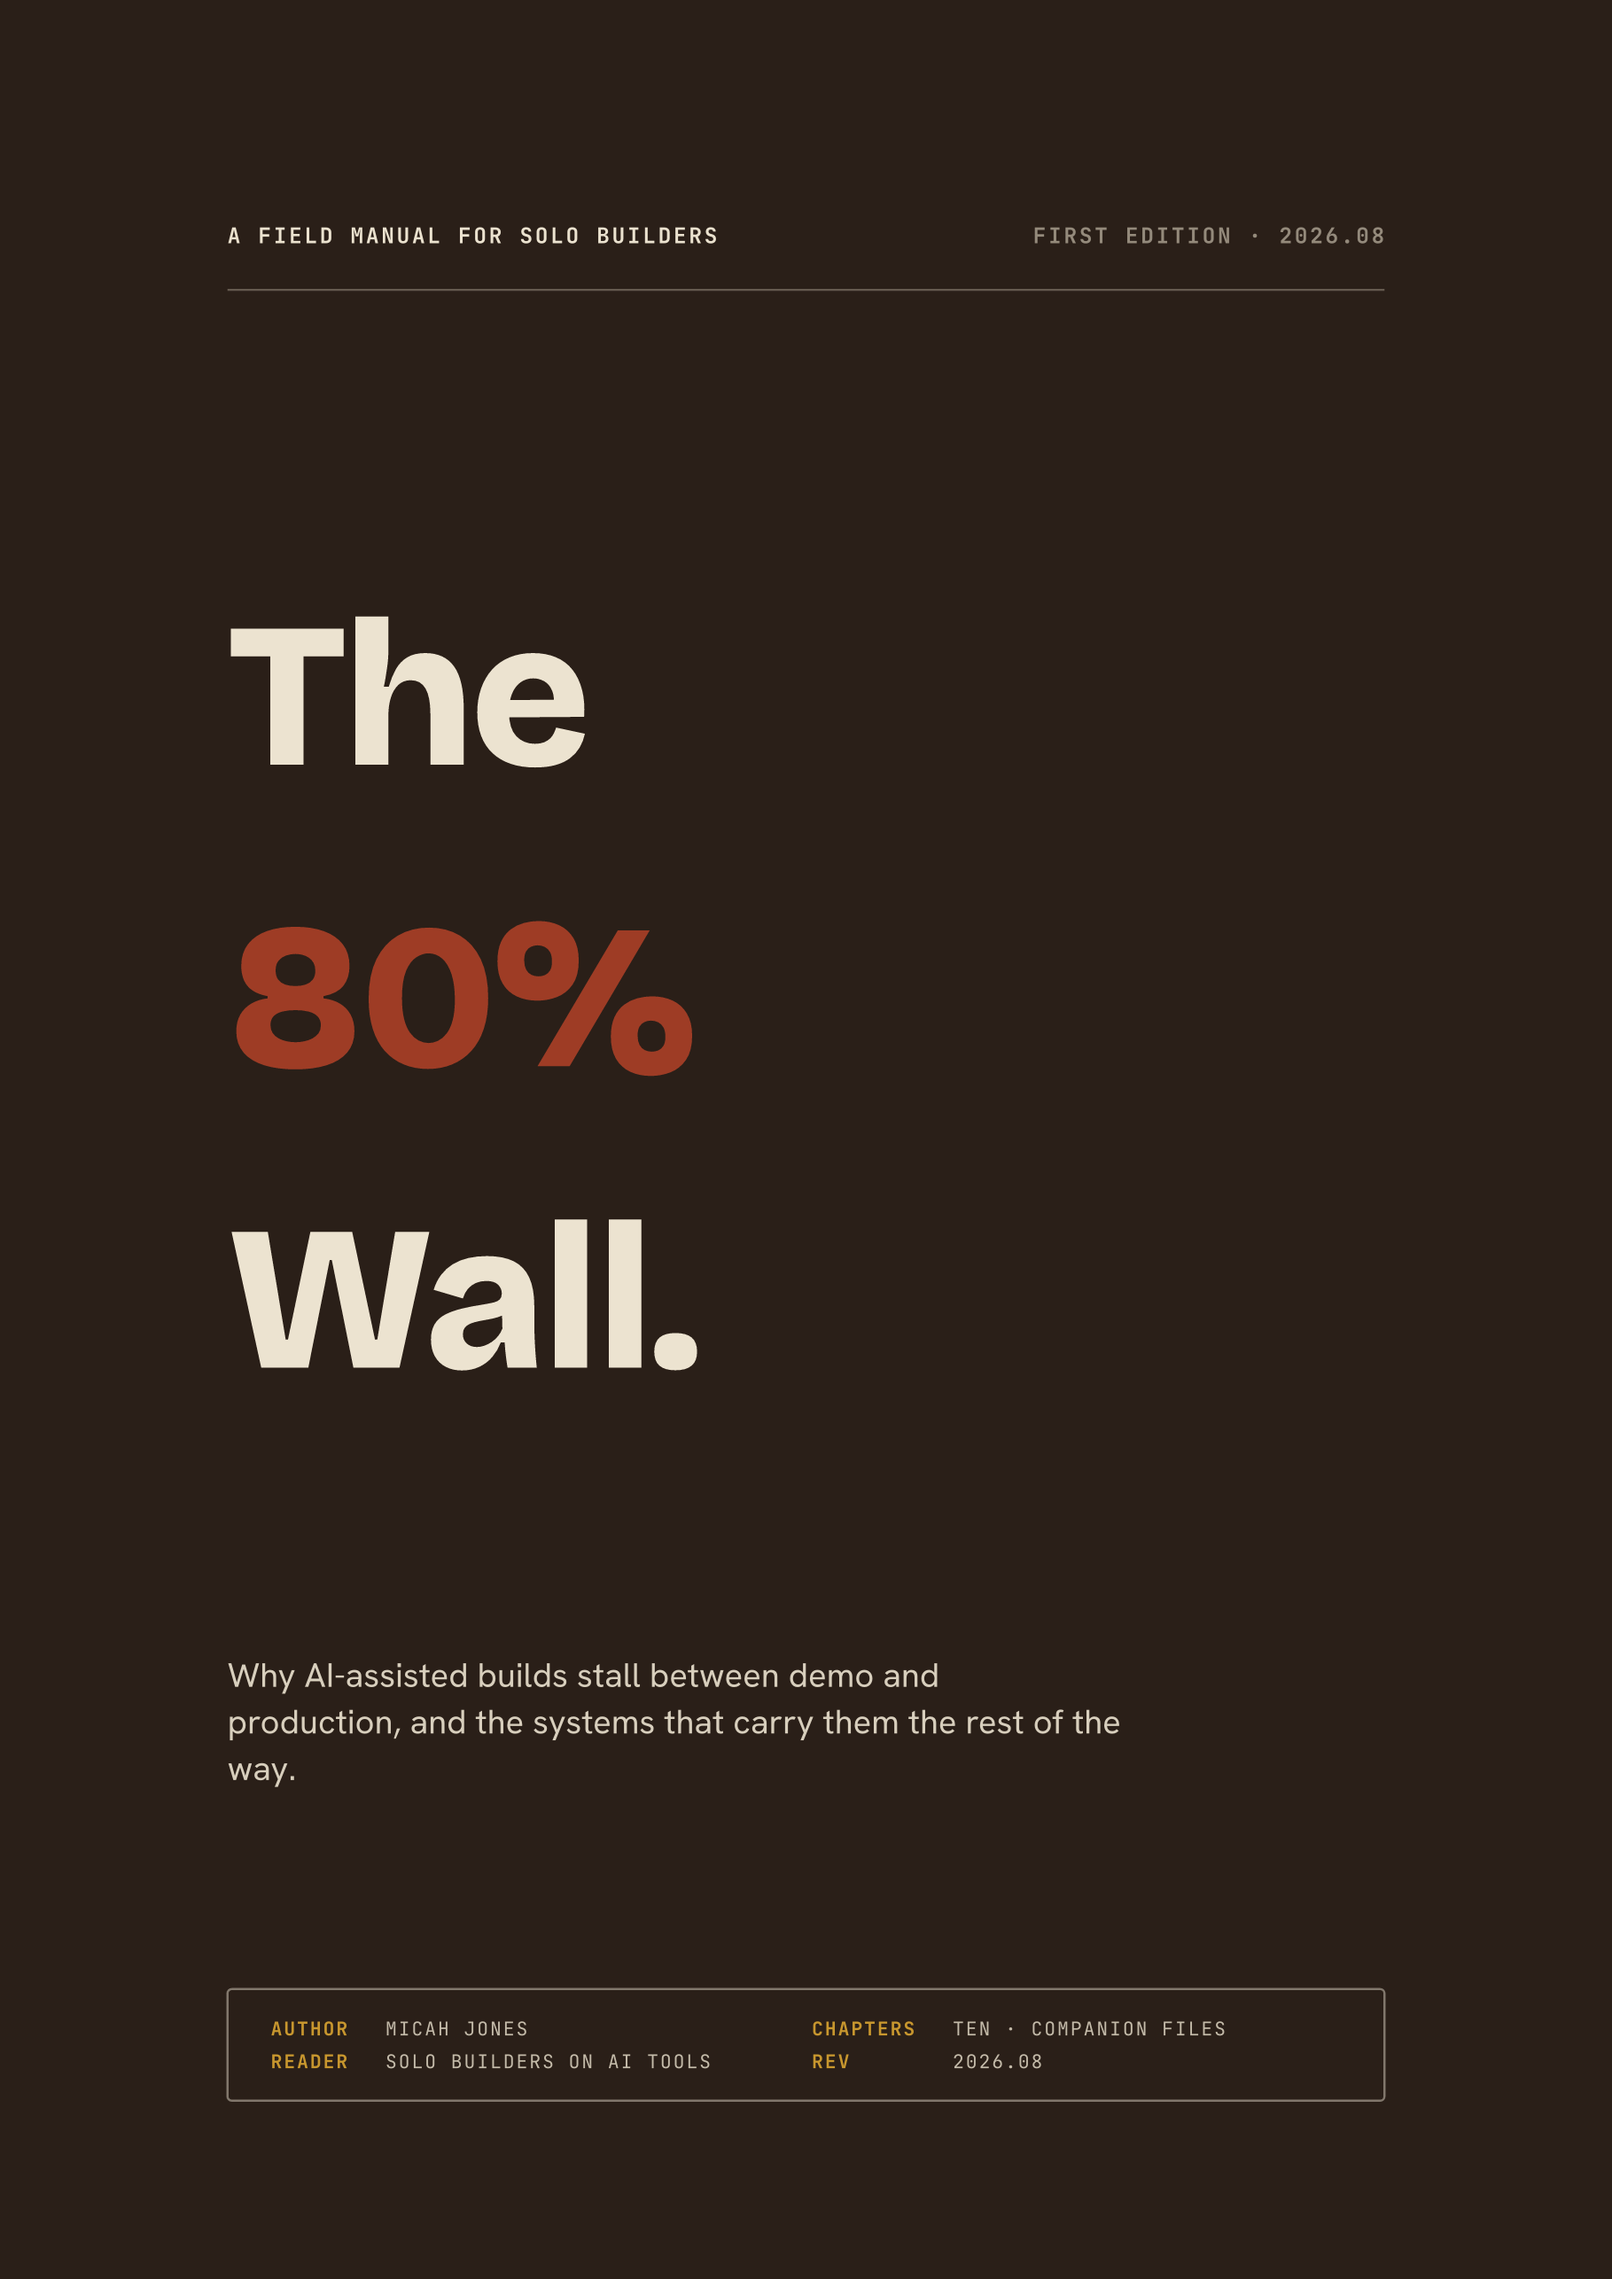
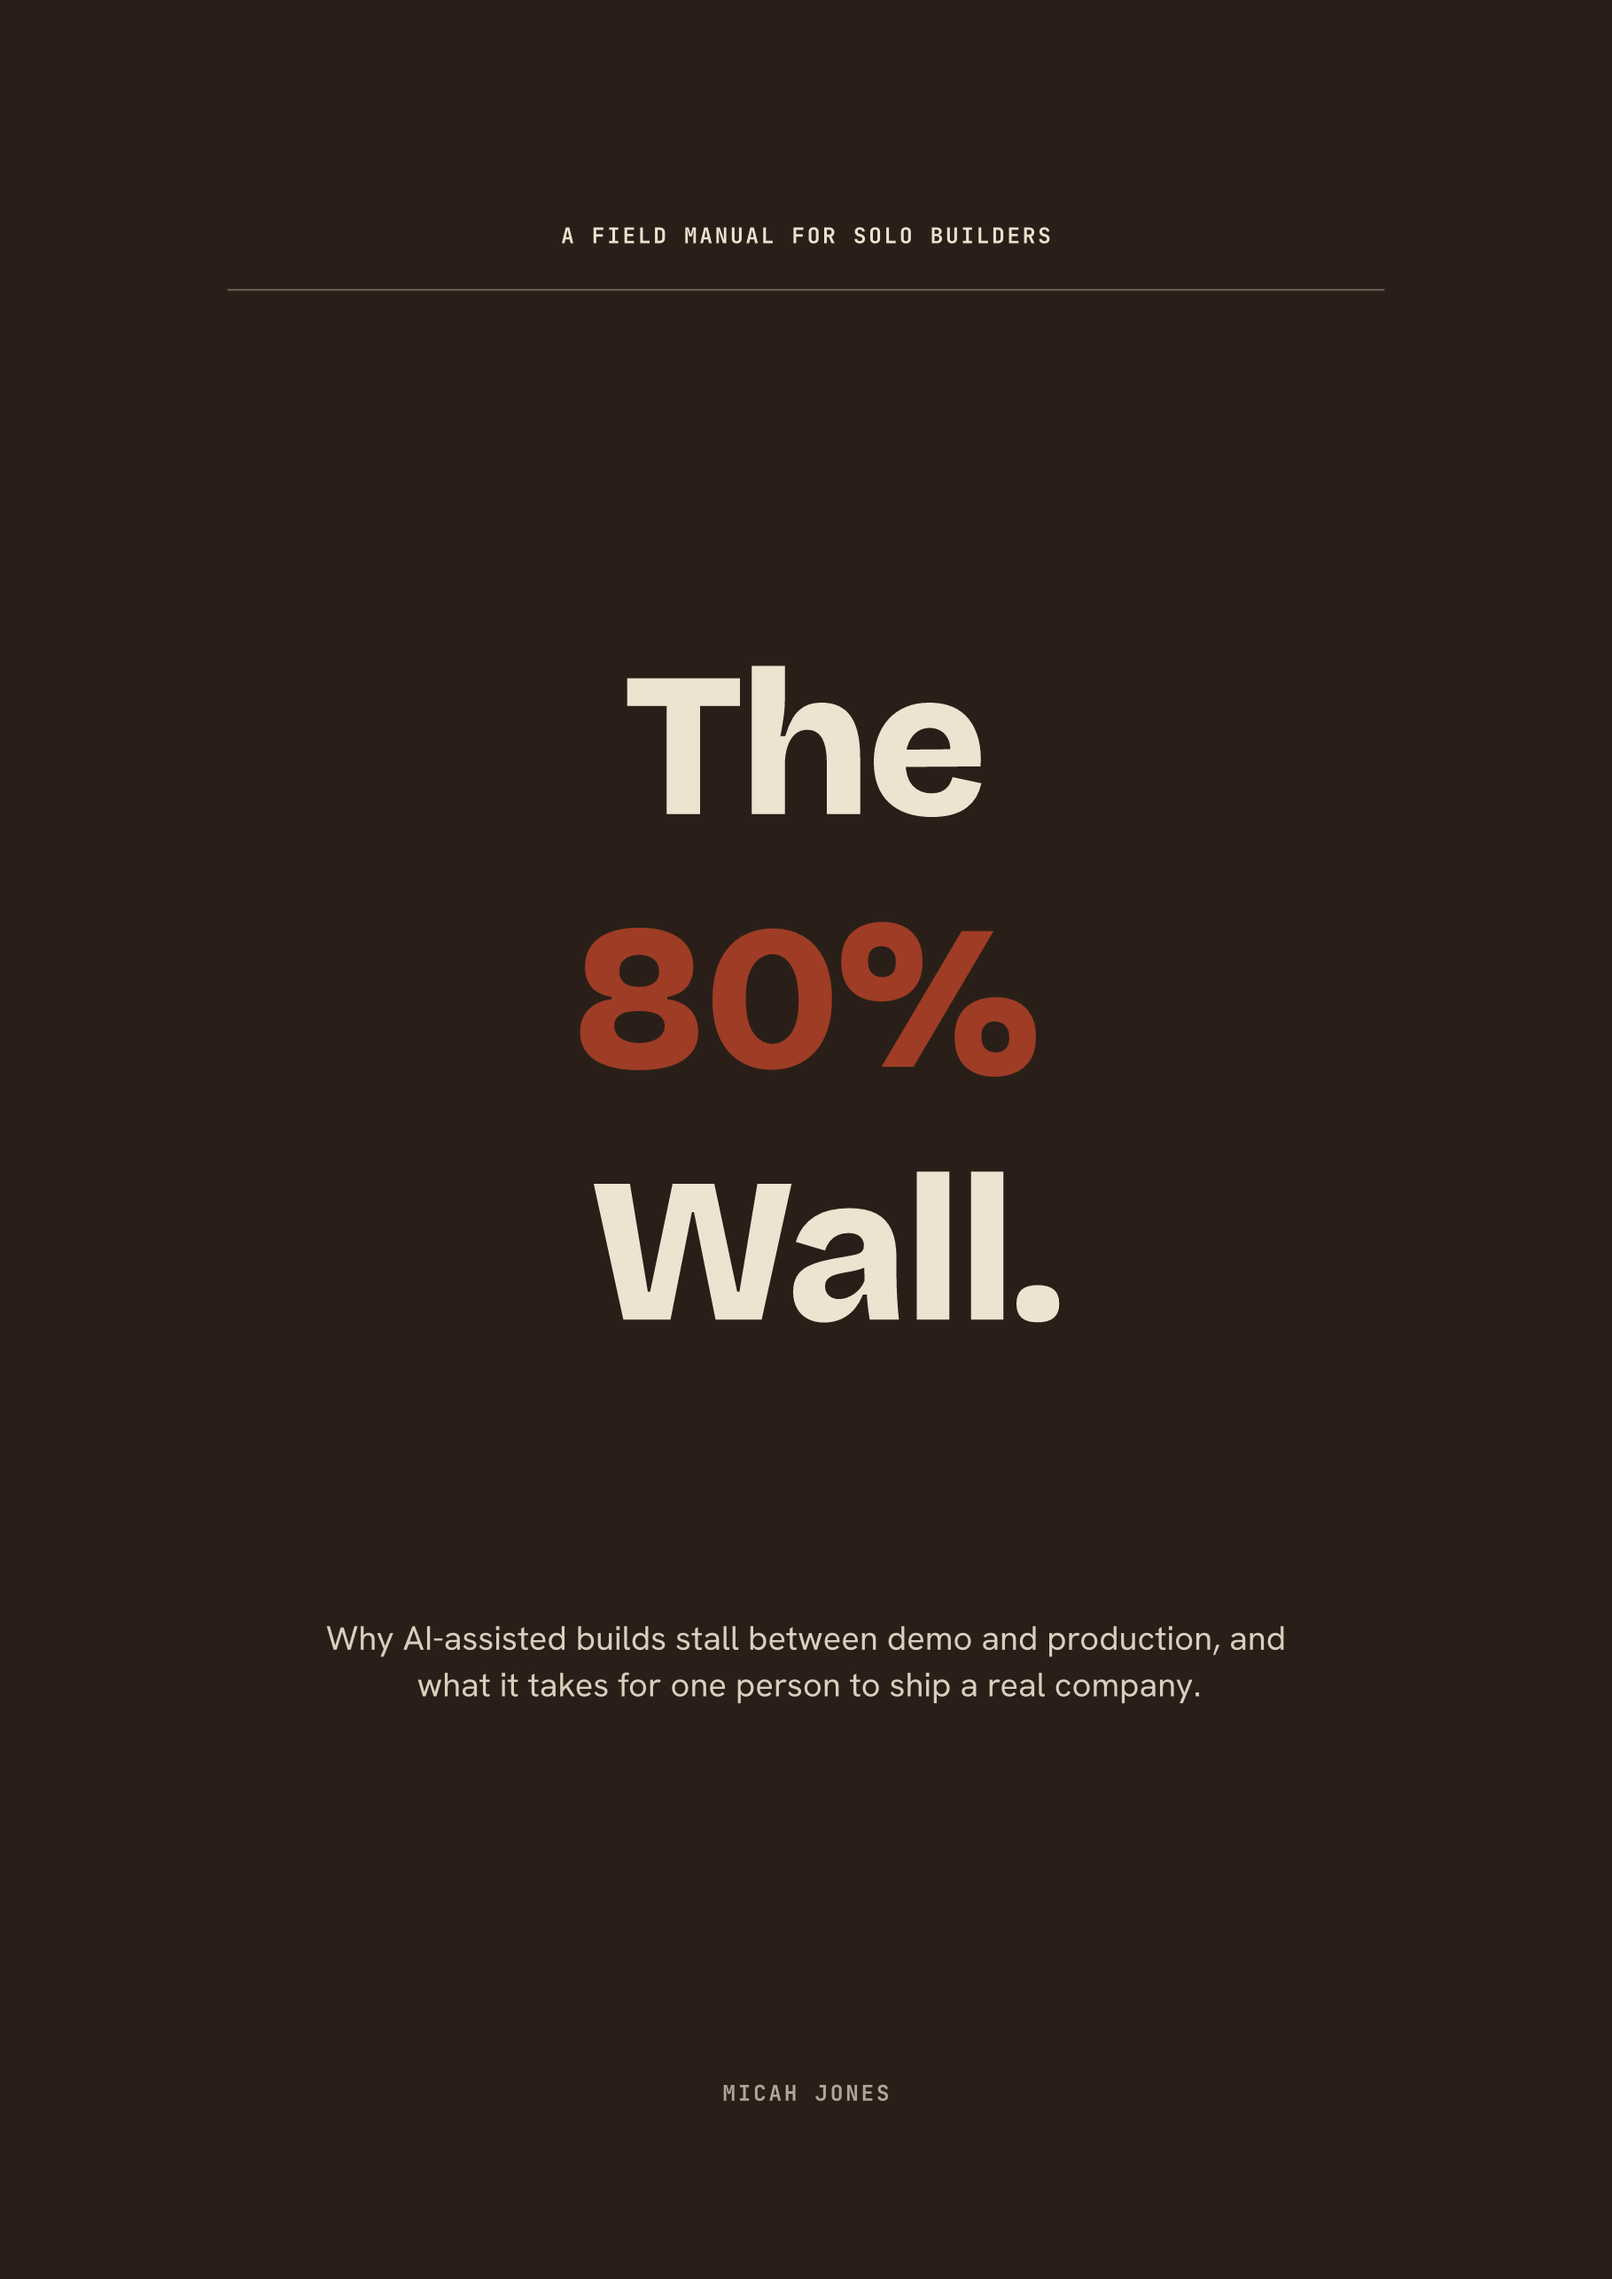
Pass-65: new hero, and the cover stripped to what a cover has to do
COPY. Operator: the old headline undersold, and the stakes belong on the company
rather than the code. He is right and the book backs him: chapters eight through
ten are first users, distribution and handoff, so the stakes rise without a claim
going soft.

H1 is now "The AI handed you the code. Now ship the company." Two beats,
statement then command. His own phrasing was a question, "Ready to ship your
company?", and the question form is the most common opener in this genre; this
buyer reads it as a template on sight. The idea survives, the question does not.

The sub now proves the headline inside its first clause by naming the five real
systems the AI leaves behind, then the one proof this reader respects: the same
tools, a HIPAA-compliant product, built solo. Sentence average is 16.7 words,
zero em-dashes.

Two other surfaces carried the old headline. The share card moved with it. The
metadata descriptions were checked and did not.

COVER, re-rendered from the Typst source so the change is in the guide itself and
not only the web image. Removed: the dated edition stamp, the bottom spec block,
and the spine wording on the site. Centred: the kicker, the title, and the line
beneath it. Title leading tightened from -30pt to -48pt so the three lines read
as one stacked wordmark rather than three separate words.

Removing the spec block also removed the author from the cover, so the name now
sits centred at the foot in small type. A book with no author on it looks
[…]

diff --git a/app/(foyer)/playbook/page.tsx b/app/(foyer)/playbook/page.tsx
@@ -140,9 +140,11 @@ export default function PlaybookPage() {
       {/* 1. THE OBJECT — espresso */}
       <header className="cw-lp-object" data-world="espresso">
         <div className="cw-lp-book">
-          <div className="cw-lp-book__spine" aria-hidden>
-            <span>The 80% Wall · Micah Jones · First edition</span>
-          </div>
+          {/* The binding stays: it is what makes the cover read as an object.
+              The wording on it went (operator, 2026-09-01) — it repeated the
+              title at 8px and said nothing the cover did not already say. */}
+          <div className="cw-lp-book__spine" aria-hidden />
+
           <Image
             src="/playbook/book-cover.png"
             alt="The cover of The 80% Wall: an espresso spec-sheet page, the title stacked in bone and terracotta display type."
@@ -155,12 +157,14 @@ export default function PlaybookPage() {
         <div className="cw-lp-object__text">
           <p className="cw-lp-kicker">A field manual for solo builders</p>
           <h1 className="cw-lp-object__title">
-            Your build got to 80%. Here is the rest of the way.
+            The AI handed you the code. Now ship the company.
           </h1>
           <p className="cw-lp-object__sub">
-            Ten chapters on the walls between demo and production, and the
-            systems that carry a solo build through them. Sixty-eight pages.
-            Twenty-six working files. Every build-log entry true and dated.
+            Ten chapters on the part the AI leaves to you: auth, deploys,
+            payments, security, compliance, and the first ten users who stay. I
+            wrote it after building a HIPAA-compliant SaaS for birth workers,
+            solo, with Claude Code and Cursor. Sixty-eight pages, twenty-six
+            working files, every build-log entry true and dated.
           </p>
           <div className="cw-lp-object__row">
             <a href="#pb-free" className="cw-mlink">

diff --git a/app/(foyer)/playbook/opengraph-image.tsx b/app/(foyer)/playbook/opengraph-image.tsx
@@ -16,7 +16,7 @@ export default async function Image() {
     <CWOGComposition
       eyebrow="THE 80% WALL · FIELD MANUAL"
       headline="80% DONE"
-      punch="Your build got to 80%. Here is the rest of the way. 68 pages, 26 working files."
+      punch="The AI handed you the code. Now ship the company. 68 pages, 26 working files."
     />,
     size,
   );
